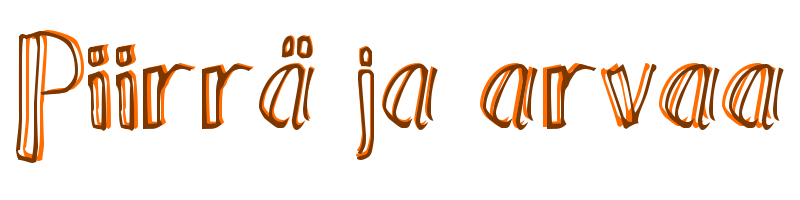
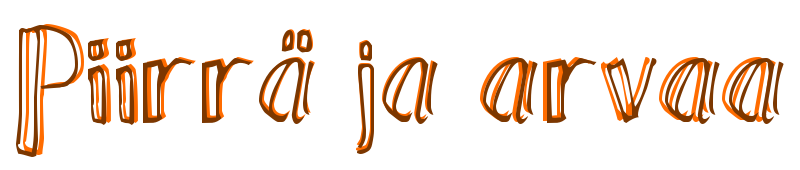
Pikku muutoksia css:ään ja html:ään

diff --git a/css/piirra_ja_arvaa_style.css b/css/piirra_ja_arvaa_style.css
@@ -5,7 +5,7 @@ body {
 .piirtoalue {
   position:absolute;
   left:10px;
-  top:60px;
+  top:170px;
   width:550px;
   height:600px;
   background-color:#FFFFFF;
@@ -14,7 +14,7 @@ body {
 .tyokalut {
   position:absolute;
   left:20px;
-  top:700px;
+  top:780px;
   width:550px;
   background-color:#FFFFFF;
 }
@@ -22,7 +22,7 @@ body {
 .arvausalue {
   position:absolute;
   left:570px;
-  top:60px;
+  top:170px;
   width:440px;
   height:600px;
   background-color:#b3bbcf;
@@ -31,7 +31,7 @@ body {
 .painikkeet {
   position:absolute;
   left:570px;
-  top:700px;
+  top:780px;
   width:440px;
   background-color:#FFFFFF;
 }

diff --git a/html_templatet/piirra_ja_arvaa.html b/html_templatet/piirra_ja_arvaa.html
@@ -10,7 +10,7 @@
     </head>
  <body>
 <h1></h1>
-<img style="position:absolute; top:5px; left:100px; width:50px; height:50px" src="css/piirra_arvaa_banneri.png">
+<img style="position:absolute; top:5px; left:100px; width:800px; height:170px" src="css/piirra_arvaa_banneri.png">
 <div class="piirtoalue">
 
 <canvas id="drawingcanvas" width="550" height="600" style="border:2px solid #000000;">
